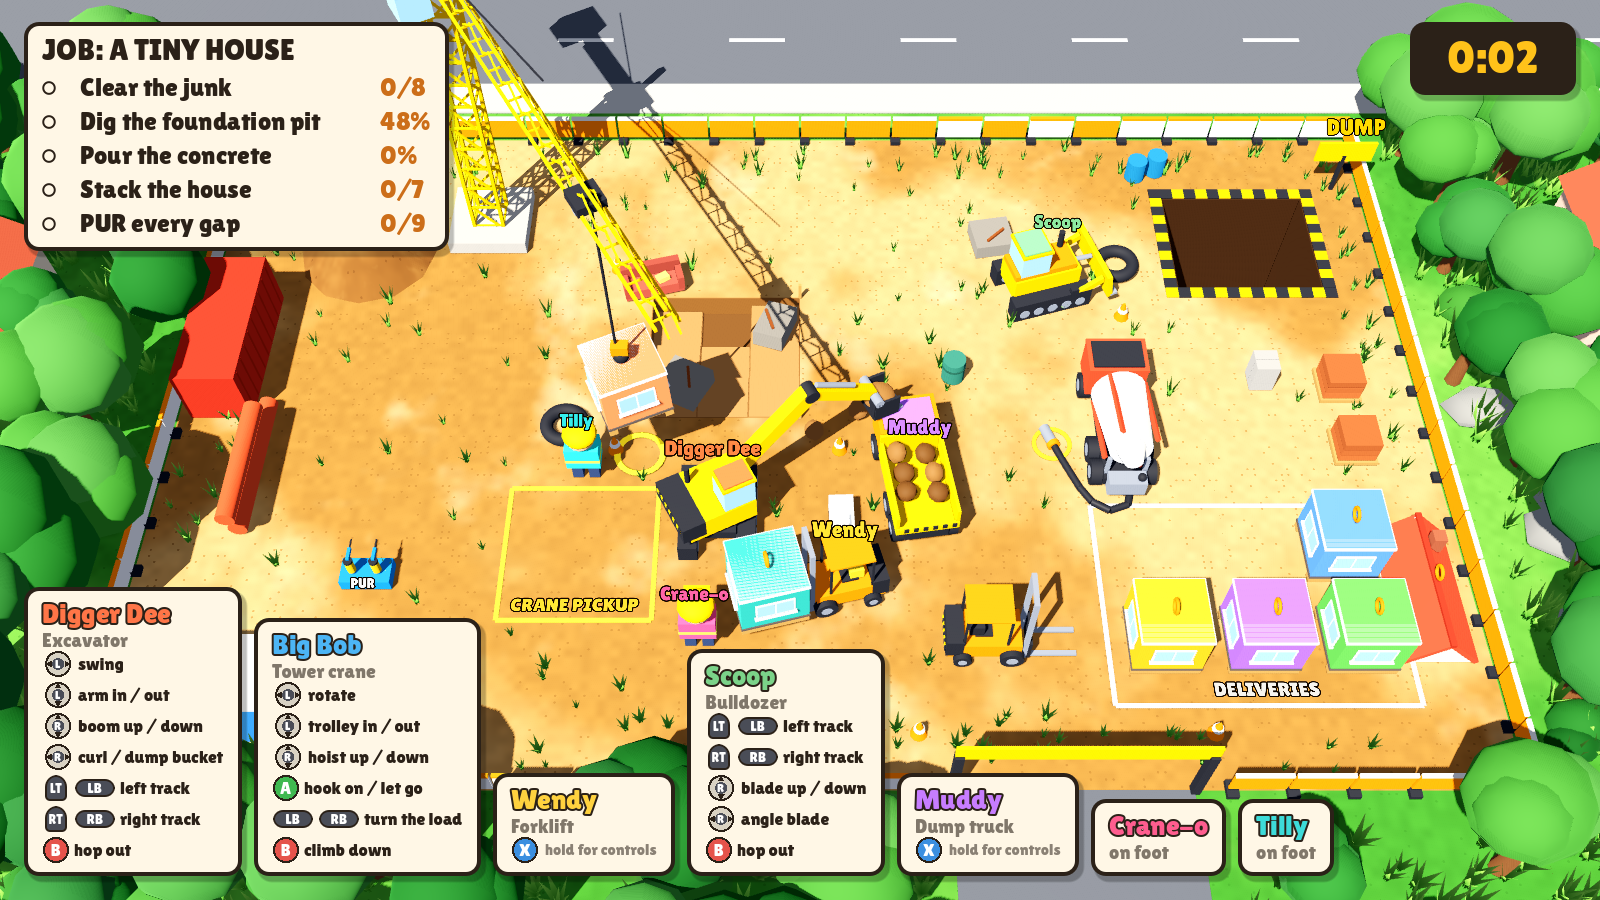
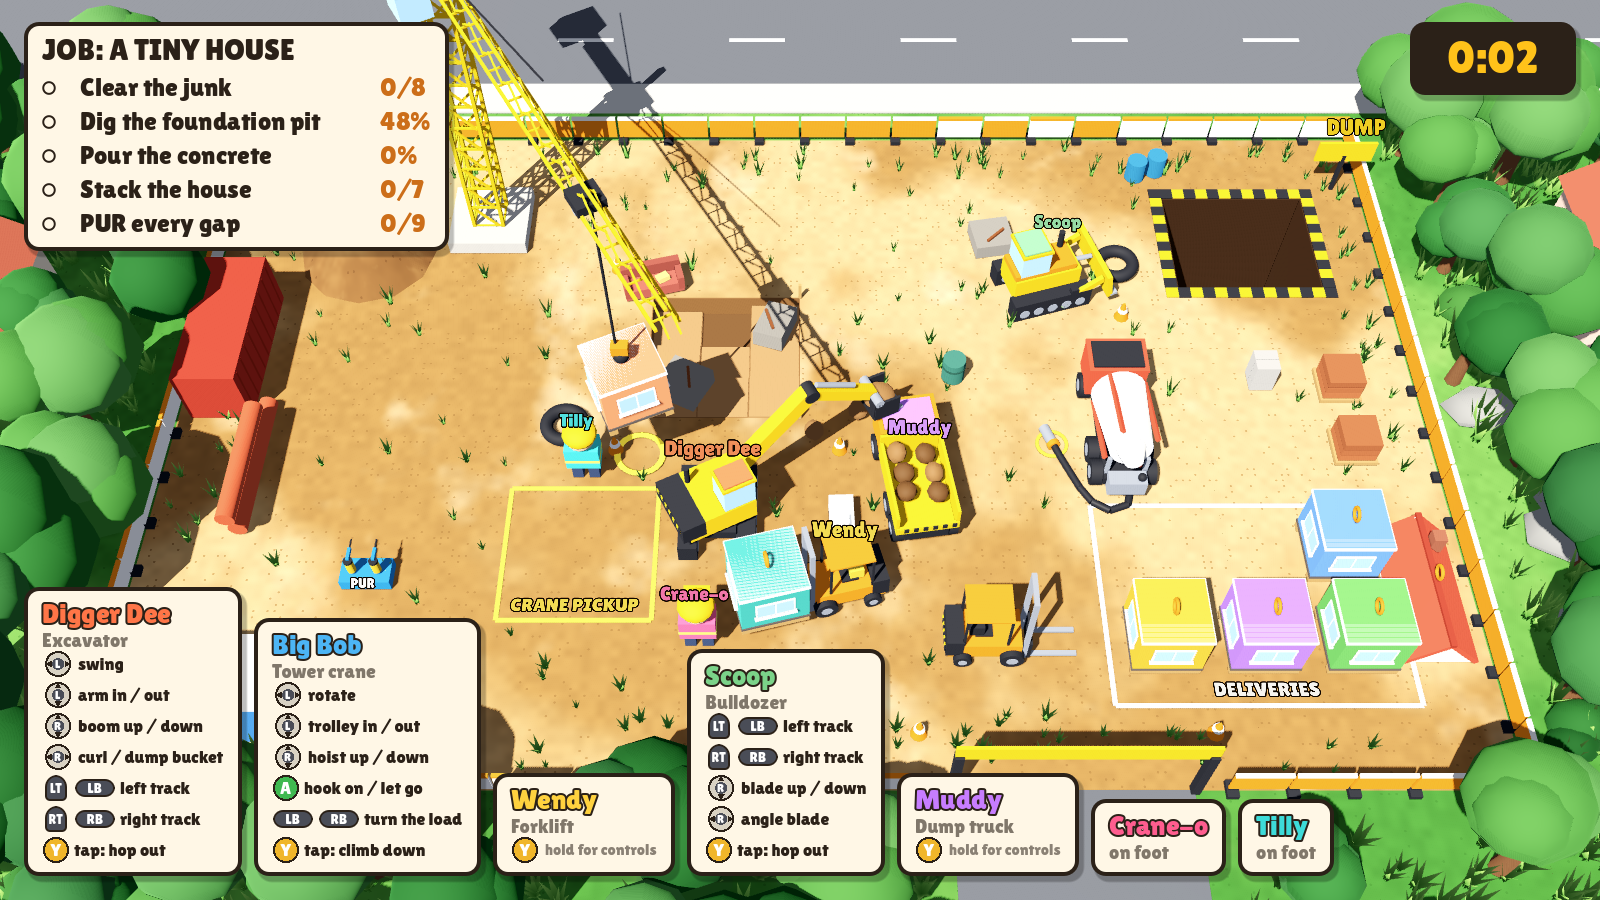
Y taps in and out, hold Y for controls; softer colours
One button for getting in and out: a quick tap of Y climbs into or out
of a machine, or picks up or puts down a tool. Holding Y (0.3 s) shows
the controls in the player card instead. A on foot only bolts modules.
The dump truck tips on RB, the mixer pump moved to X.
Scene saturation down from 1.12 to 0.86.

Claude-Session: https://claude.ai/code/session_012qGoxj4nUFzQCJ7vE5oWcN

diff --git a/README.md b/README.md
@@ -20,7 +20,7 @@ That is the point.
 | Clear the junk | Bulldozer | Push the sofa, tyres, slabs and the old fridge into the **DUMP** hole |
 | Dig the foundation pit | Excavator | Scoop the nine dirt cells down to the pit floor |
 | Haul the dirt | Excavator + dump truck | Dump into the truck, drive it to the hole, tip the bed. Dirt spilled back into the pit fills it again |
-| Pour the concrete | Concrete truck + builder on foot | Park the mixer near the pit, press Y to start the pump, then grab the hose on foot and pour every dug cell full. The hose only reaches 11 m and missed concrete splats on the sand |
+| Pour the concrete | Concrete truck + builder on foot | Park the mixer near the pit, press X to start the pump, then grab the hose on foot and pour every dug cell full. The hose only reaches 11 m and missed concrete splats on the sand |
 | Stack the house | Forklifts + crane + builders | Forklift modules from **DELIVERIES** to **CRANE PICKUP**, crane them onto the dotted ghosts (four below, two on top, then the roof). Nothing snaps: a builder on foot presses A next to a lowered module to bolt it in exactly where it stands, up to 1 m off and 20 degrees twisted. Sloppy crane work makes a wonky house |
 | PUR every gap | Builders on foot | Grab a foam gun from the PUR crate and spray every glowing gap where two parts meet. Wonkier joins need more foam. The job ends with a neatness score |
 
@@ -29,18 +29,19 @@ gives three stars under 8 minutes and two under 12.
 
 ## Controls
 
-On foot: left stick walks, **A** picks up a tool (concrete hose, foam
-gun), bolts a lowered module in, or climbs into the nearest free machine, **B** climbs out or puts the tool down,
-**RT** or **A** uses the tool. Fast machines knock builders over. Hold **X** in a machine to
-show its controls in your player card.
+**Y** does the getting in and out: tap it to climb into the nearest free
+machine or out again, or to pick up and put down a tool (concrete hose, foam
+gun). Hold **Y** to show what you're driving or holding in your player card.
+On foot, the left stick walks, **A** bolts a lowered module in, and **RT** or
+**A** uses a held tool. Fast machines knock builders over.
 
 | Machine | Controls |
 | --- | --- |
 | Bulldozer | LT / LB: left track forward / back, RT / RB: right track forward / back, right stick: lift and angle the blade |
 | Excavator | Left stick: swing / arm in-out, right stick: boom / bucket curl, LT / LB and RT / RB: tracks, same as the bulldozer. Dirt stays in while the bucket faces up |
 | Forklift | Left stick: steer (rear wheels), RT / LT: drive / reverse, right stick: forks |
-| Dump truck | Left stick: steer, RT / LT: drive / reverse, Y or RB: tip the bed |
-| Concrete truck | Left stick: steer, RT / LT: drive / reverse, Y: pump on / off |
+| Dump truck | Left stick: steer, RT / LT: drive / reverse, RB: tip the bed |
+| Concrete truck | Left stick: steer, RT / LT: drive / reverse, X: pump on / off |
 | Tower crane | Left stick: rotate / trolley, right stick: hoist, A: hook on / let go, LB / RB: turn the load |
 
 The GameNight setting **Machine controls: easy** gives the bulldozer one-stick
